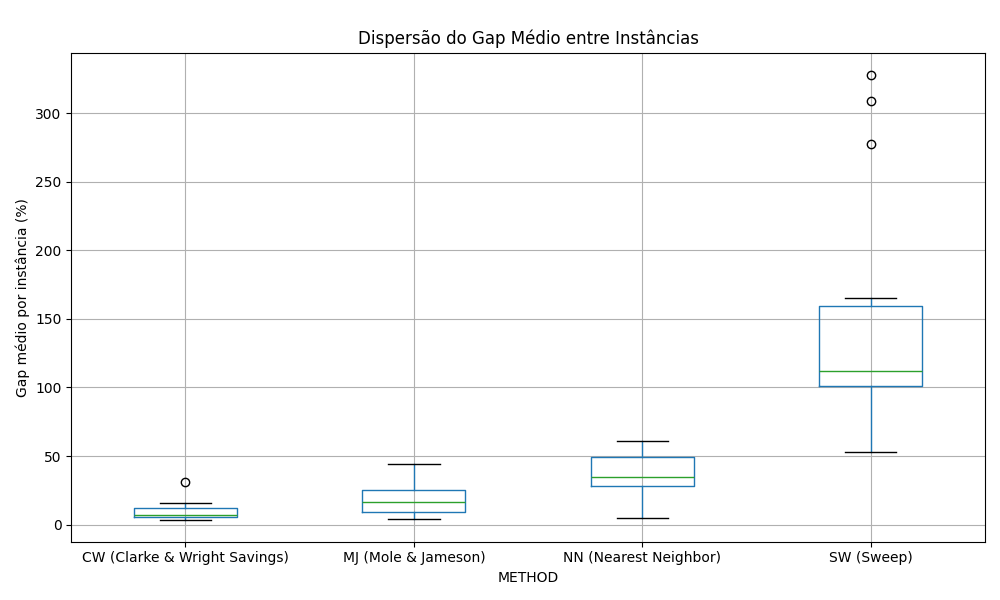
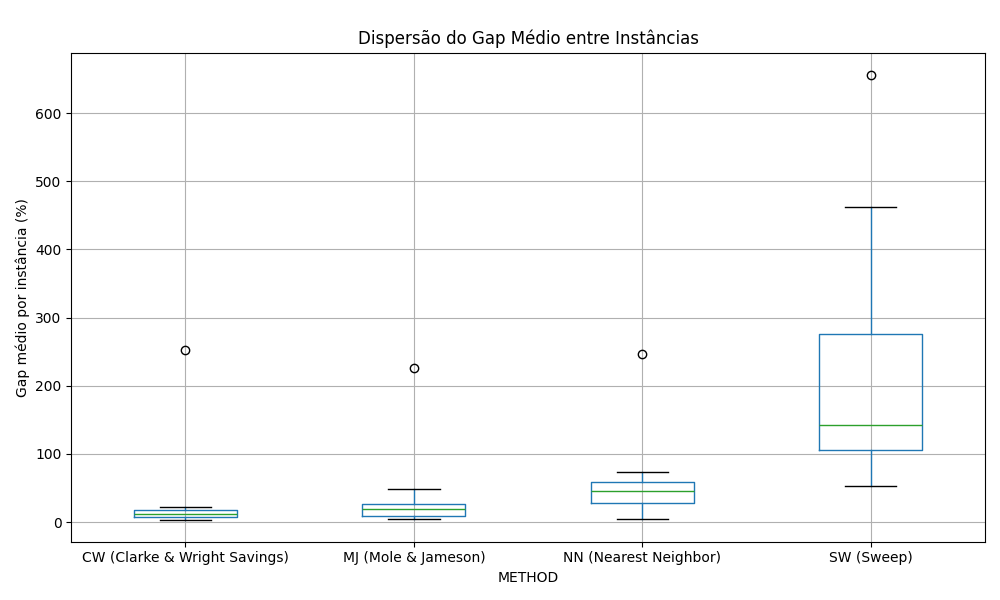
feat: .dat com friedman

diff --git a/TesteDeHipotese/testaHipotese.py b/TesteDeHipotese/testaHipotese.py
@@ -1,19 +1,23 @@
-
 import os
 import sys
 
-# Garante que a raiz do projeto está no path
 ROOT = os.path.dirname(os.path.dirname(os.path.abspath(__file__)))
 if ROOT not in sys.path:
     sys.path.insert(0, ROOT)
 
 from instancesConfig import ARQUIVO_DAT
 from metodos.friedman import friedman
-from utils import load_data 
+from utils import load_data
+from saida.graphics import plotar_friedman
 
 def testaHipotese():
     data = load_data(ARQUIVO_DAT)
-    return friedman(data)
+    resultado = friedman(data)
+    print(f"Estatística de Friedman: {resultado['friedman'][0]:.4f}")
+    print(f"Estatística de Iman-Davenport: {resultado['iman'][0]:.4f}")
+    print(f"P-value: {resultado['p_value']:.6f}")
+    print(f"Rejeita H0 (α=0.05): {resultado['p_value'] < 0.05}")
+    plotar_friedman(resultado)
+    return resultado
 
-# teste
 testaHipotese()